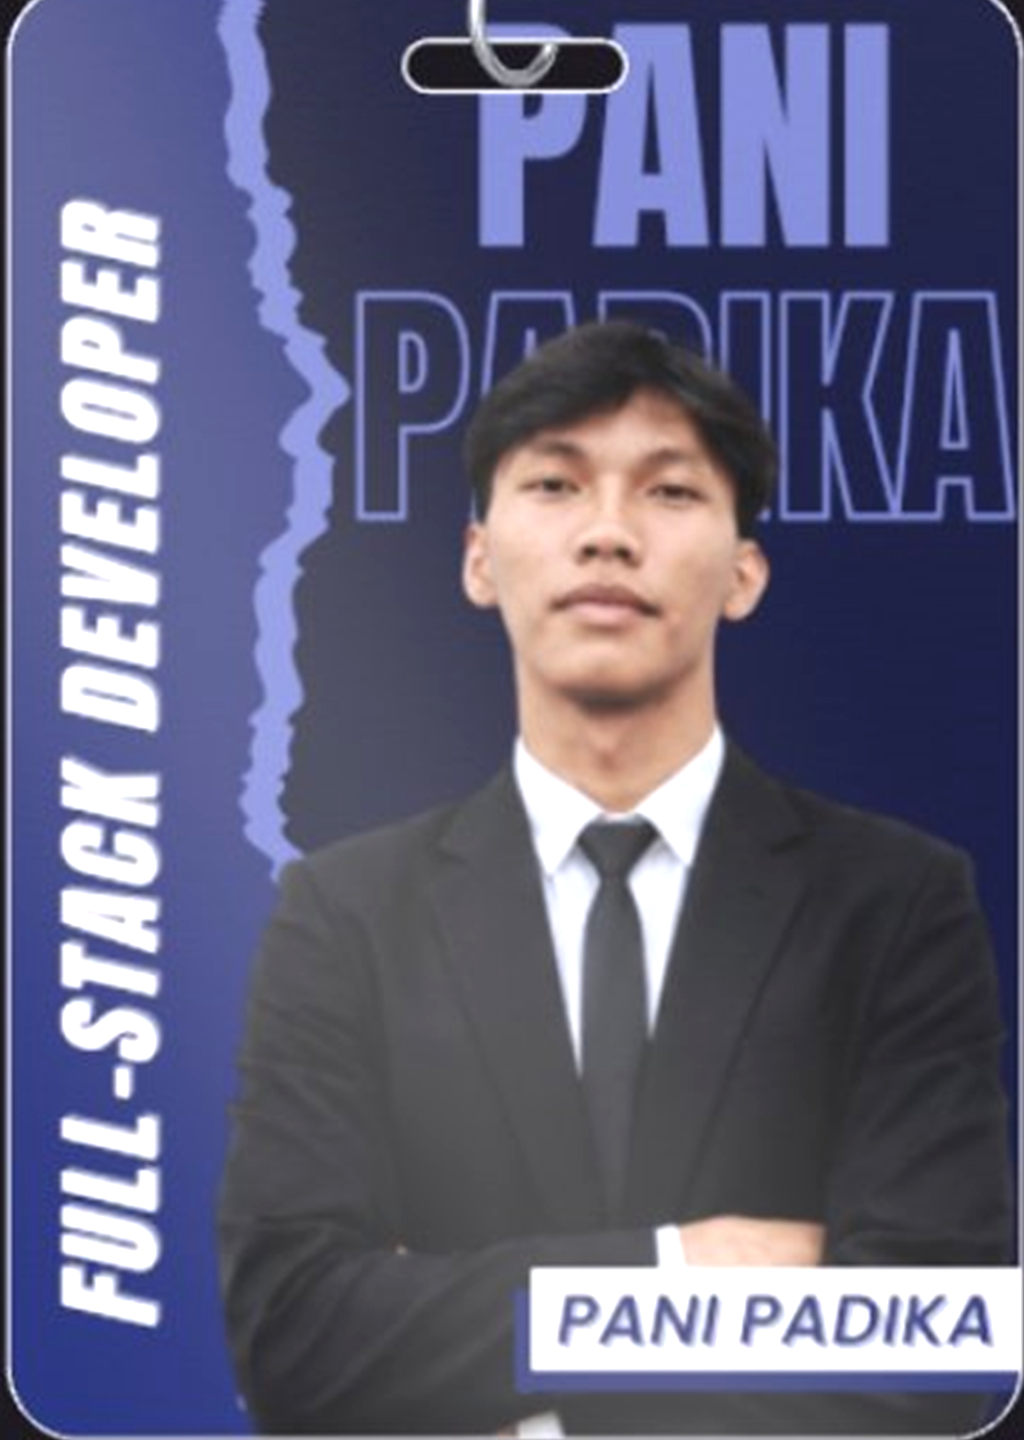
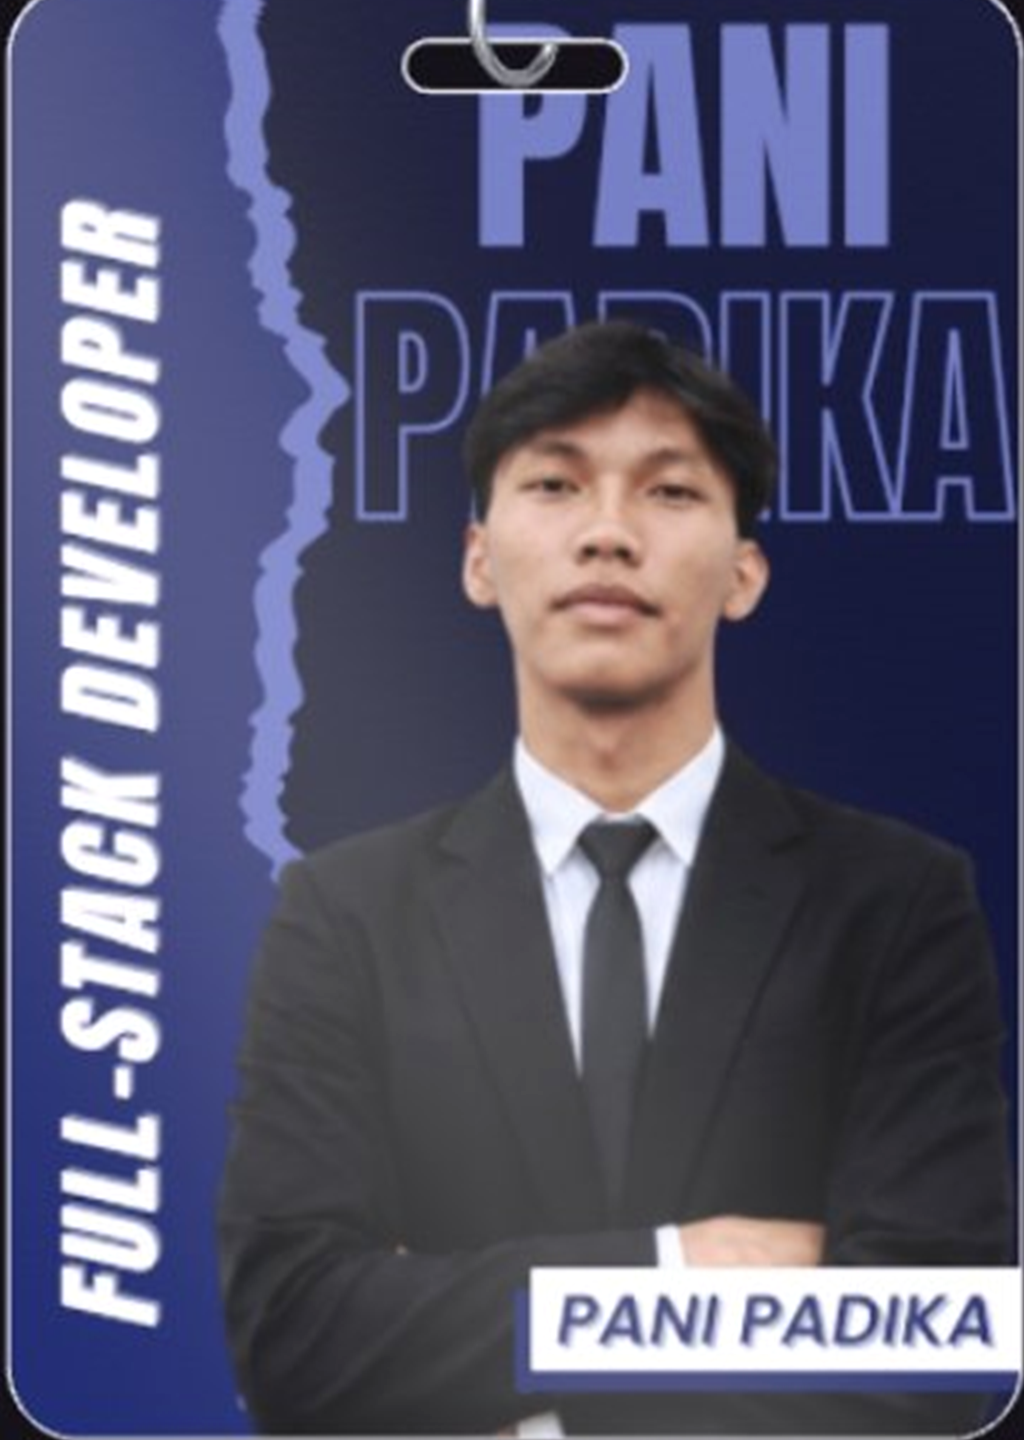
fix(lanyard): re-calibrate card brightness and 3d lighting to natural balanced levels

diff --git a/resources/js/three/Lanyard.tsx b/resources/js/three/Lanyard.tsx
@@ -576,14 +576,14 @@ const buildEnvironment = (renderer: THREE.WebGLRenderer) => {
         mesh.rotateZ(rotation);
         scene.add(mesh);
     };
-    panel(2.0, [0, 4.5, 8], [9, 4]);
-    panel(4.5, [-5.5, 0.5, 7], [0.9, 14]);
-    panel(3.0, [5, -0.5, 8], [0.6, 14]);
-    panel(2.4, [0, -1, 9], [24, 0.35], Math.PI / 3);
-    panel(1.6, [1, 2.5, 9], [24, 0.2], Math.PI / 3);
-    panel(1.0, [0, 6, -6], [12, 4]);
-    panel(0.4, [0, -7, 1], [16, 6]);
-    panel(0.7, [8, 0, -2], [4, 10]);
+    panel(1.6, [0, 4.5, 8], [9, 4]);
+    panel(3.5, [-5.5, 0.5, 7], [0.9, 14]);
+    panel(2.2, [5, -0.5, 8], [0.6, 14]);
+    panel(1.9, [0, -1, 9], [24, 0.35], Math.PI / 3);
+    panel(1.3, [1, 2.5, 9], [24, 0.2], Math.PI / 3);
+    panel(0.85, [0, 6, -6], [12, 4]);
+    panel(0.35, [0, -7, 1], [16, 6]);
+    panel(0.55, [8, 0, -2], [4, 10]);
     const pmrem = new THREE.PMREMGenerator(renderer);
     const target = pmrem.fromScene(scene, 0.035);
     pmrem.dispose();
@@ -1172,7 +1172,7 @@ const Lanyard = ({
         renderer.setClearColor(0x000000, 0);
         renderer.outputColorSpace = THREE.SRGBColorSpace;
         renderer.toneMapping = THREE.NeutralToneMapping;
-        renderer.toneMappingExposure = 1.15;
+        renderer.toneMappingExposure = 1.05;
         const canvas = renderer.domElement;
         canvas.className = 'block w-full h-full';
         canvas.setAttribute('aria-hidden', 'true');
@@ -1186,10 +1186,10 @@ const Lanyard = ({
         const environment = buildEnvironment(renderer);
         scene.environment = environment.texture;
         const camera = new THREE.PerspectiveCamera(FOV, 1, 0.1, 200);
-        const ambientLight = new THREE.AmbientLight(0xffffff, 0.75);
-        const keyLight = new THREE.DirectionalLight(0xffffff, 1.35);
+        const ambientLight = new THREE.AmbientLight(0xffffff, 0.45);
+        const keyLight = new THREE.DirectionalLight(0xffffff, 1.2);
         keyLight.position.set(-2, 3.5, 6);
-        const fillLight = new THREE.DirectionalLight(0xffffff, 0.55);
+        const fillLight = new THREE.DirectionalLight(0xffffff, 0.35);
         fillLight.position.set(2.5, -0.5, 5);
         scene.add(ambientLight, keyLight, fillLight);
 
